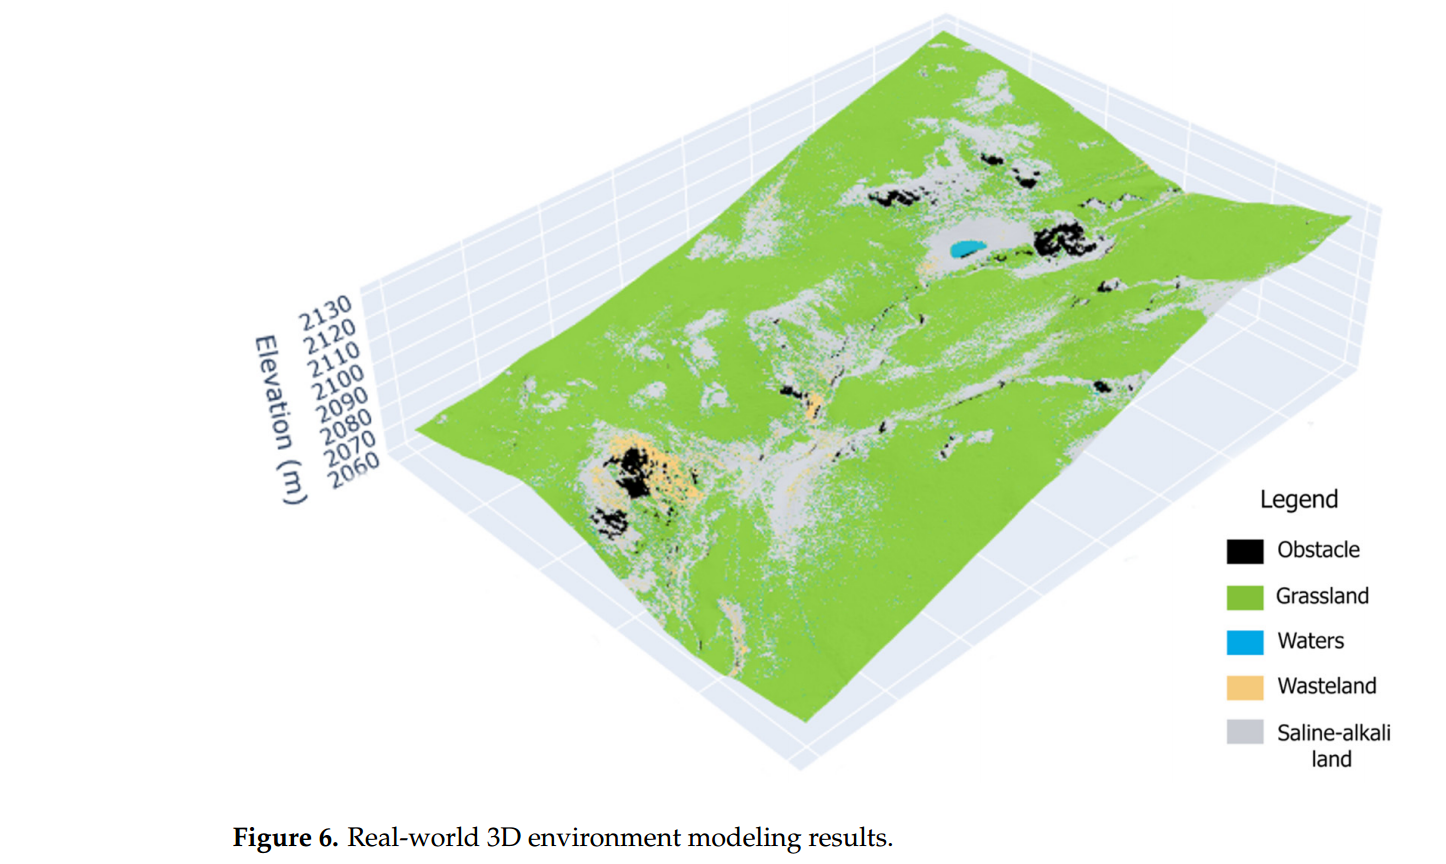
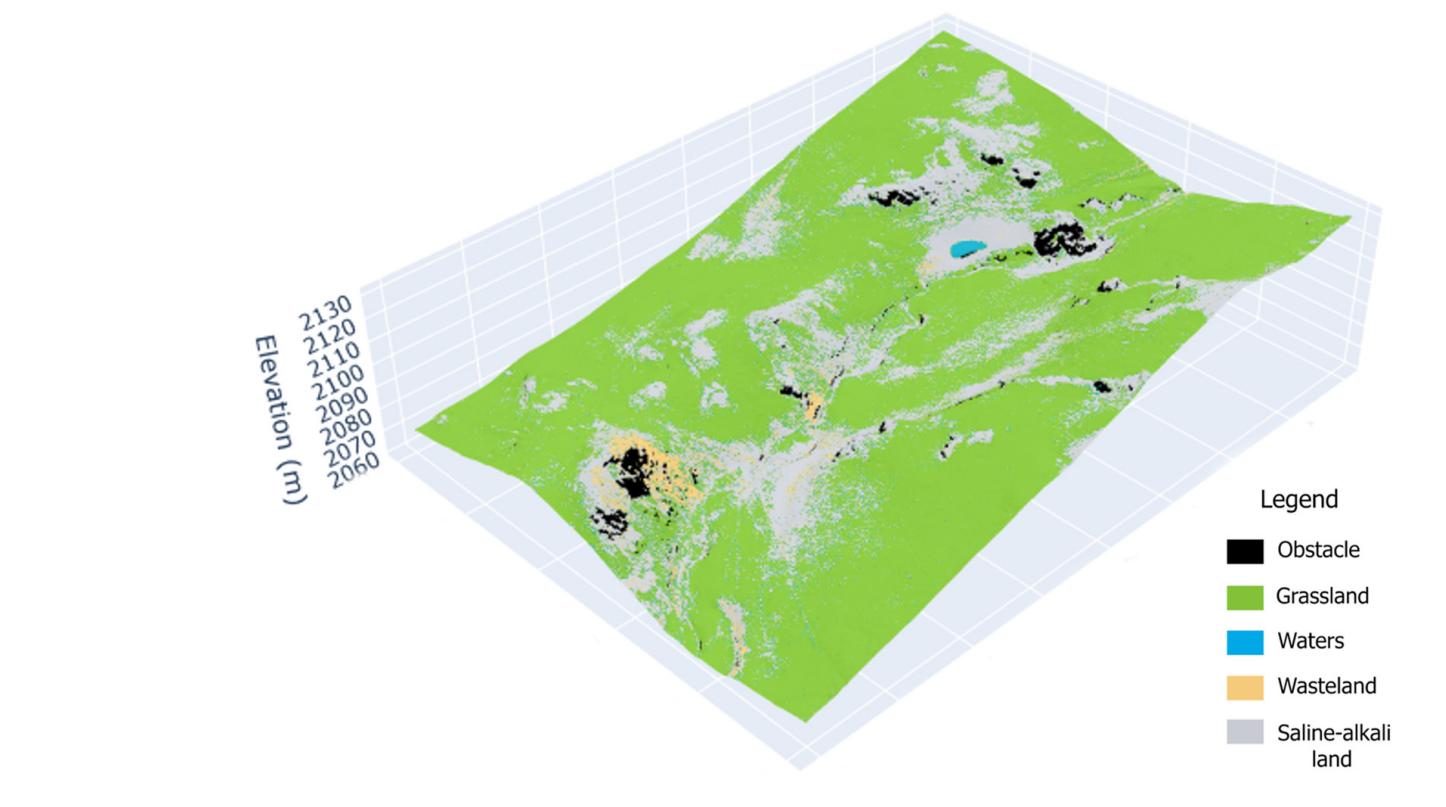
Add figure citations, update chapter 2 references and rebuild PDF

diff --git a/search_pdfs.py b/search_pdfs.py
@@ -1,0 +1,34 @@
+import os
+import fitz  # PyMuPDF
+import re
+
+pdf_dir = "Literature"
+search_terms = {
+    "fig2_1": re.compile(r"System overview of a typical unmanned ground vehicle", re.IGNORECASE),
+    "fig2_2": re.compile(r"Architecture of the proposed autonomous navigation approach", re.IGNORECASE),
+    "fig2_3": re.compile(r"Real-world 3D environment modeling results", re.IGNORECASE),
+    "fig2_4": re.compile(r"Roadford Lake", re.IGNORECASE)
+}
+
+results = {k: [] for k in search_terms.keys()}
+
+for filename in os.listdir(pdf_dir):
+    if not filename.endswith(".pdf"):
+        continue
+    filepath = os.path.join(pdf_dir, filename)
+    try:
+        doc = fitz.open(filepath)
+        for page_num in range(len(doc)):
+            text = doc[page_num].get_text("text").replace('\n', ' ')
+            for key, pattern in search_terms.items():
+                if pattern.search(text):
+                    results[key].append(filename)
+                    break 
+        doc.close()
+    except Exception as e:
+        print(f"Error reading {filename}: {e}")
+
+for key, files in results.items():
+    print(f"Matches for {key}:")
+    for f in set(files):
+        print(f"  - {f}")

diff --git a/Chap2/chap2.tex b/Chap2/chap2.tex
@@ -23,12 +23,12 @@ alongside the empirical benchmarking metrics utilized for performance evaluation
 analyzing these current methodologies to isolate areas of consensus, divergence, and operational
 limitations, this review serves to clearly delineate the specific technical gaps that this Master's
 thesis addresses. Grounding the study within this established scholarly landscape provides a clear
-justification for the development of the proposed terrain-aware path planning framework.
+justification for the development of the proposed terrain-aware path planning framework. As an example, the system overview of a typical unmanned ground vehicle is illustrated in Figure \ref{fig:ugv_system_overview} \citep{Overbye_2022_localoffroad}.
 
 \begin{figure}[htbp]
     \centering
-    \includegraphics[width=0.85\textwidth]{figures/fig_ugv_system_overview}
-    \caption{System overview of a typical unmanned ground vehicle.}
+    \includegraphics[width=0.85\textwidth]{figures/UGV System Overview}
+    \caption{\cite{Overbye_2022_localoffroad} System overview of a typical unmanned ground vehicle.}
     \label{fig:ugv_system_overview}
 \end{figure}
 
@@ -58,12 +58,12 @@ across a steep incline that exceeds the platform's physical climbing capabilitie
 catastrophic structural collisions or complete vehicle immobilization \citep{Bettencourt_2025_indoor25d}. Therefore,
 executing safe and efficient off-road navigation necessitates a robust mathematical understanding
 and direct integration of three-dimensional terrain characteristics into the core path planning
-process.
+process. The architecture of a proposed autonomous navigation approach addressing these challenges is shown in Figure \ref{fig:nav_architecture} \citep{Liu_2023_autonomousnavigation}.
 
 \begin{figure}[htbp]
     \centering
-    \includegraphics[width=0.85\textwidth]{figures/fig_nav_architecture}
-    \caption{Architecture of the proposed autonomous navigation approach. During real-time navigation, the perception module provides the original point cloud map and the vehicle pose. The prediction module predicts the local point cloud map and performs traversal cost.}
+    \includegraphics[width=0.85\textwidth]{figures/Nav_Architecture}
+    \caption{\cite{Liu_2023_autonomousnavigation} Architecture of the proposed autonomous navigation approach. During real-time navigation, the perception module provides the original point cloud map and the vehicle pose. The prediction module predicts the local point cloud map and performs traversal cost.}
     \label{fig:nav_architecture}
 \end{figure}
 
@@ -145,12 +145,12 @@ volumetric voxel densities, 2.5D configurations provide sufficient geometric det
 resource-efficient off-road routing. This structural balance is particularly vital for autonomous
 agricultural vehicles, where executing stable navigation across sloped landscapes and unmanaged crop
 fields requires a highly nuanced, topologically aware understanding of terrain profiles to prevent
-platform instability \citep{Hameed_2021_comprehensivereview}.
+platform instability \citep{Hameed_2021_comprehensivereview}. An example of real-world 3D environment modeling results is depicted in Figure \ref{fig:3d_terrain_model} \citep{Lv_2024_globaloffroad}.
 
 \begin{figure}[htbp]
     \centering
     \includegraphics[width=0.85\textwidth]{figures/fig_3d_terrain_model}
-    \caption{Real-world 3D environment modeling results.}
+    \caption{\cite{Lv_2024_globaloffroad} Real-world 3D environment modeling results.}
     \label{fig:3d_terrain_model}
 \end{figure}
 
@@ -339,12 +339,12 @@ tracking instabilities within low-level feedback controllers \citep{Karur_2021_s
 Therefore, implementing an algorithmic post-processing refinement step to transform these piece-wise
 discrete nodes into continuous, curvilinear trajectories represents a vital prerequisite for
 elevating vehicle drivability, minimizing tracking errors, and safeguarding platform structural
-integrity.
+integrity. An illustration of path smoothing applied to a discrete trajectory is presented in Figure \ref{fig:path_smoothing} \citep{Song_2019_smoothedalgorithm}.
 
 \begin{figure}[htbp]
     \centering
     \includegraphics[width=0.85\textwidth]{figures/fig_chap3}
-    \caption{Off-line path planning simulation result. (a) The satellite map (2.13 $\times$ 3.93 km) of Roadford Lake with marked start and end points. (b) The binary grid map (100 $\times$ 350 grid cells, 1 grid cell column length = 21.3 m and row length = 11.2 m) with trajectories generated using different PSs of the smoothed A* algorithm, i.e. original trajectory without path smoothing, namely the conventional A* algorithm result (blue line), trajectory after applying the LOPS and WRPS, and smoothed trajectory after using the IPS (red line).}
+    \caption{\cite{Song_2019_smoothedalgorithm} Off-line path planning simulation result. (a) The satellite map (2.13 $\times$ 3.93 km) of Roadford Lake with marked start and end points. (b) The binary grid map (100 $\times$ 350 grid cells, 1 grid cell column length = 21.3 m and row length = 11.2 m) with trajectories generated using different PSs of the smoothed A* algorithm, i.e. original trajectory without path smoothing, namely the conventional A* algorithm result (blue line), trajectory after applying the LOPS and WRPS, and smoothed trajectory after using the IPS (red line).}
     \label{fig:path_smoothing}
 \end{figure}
 